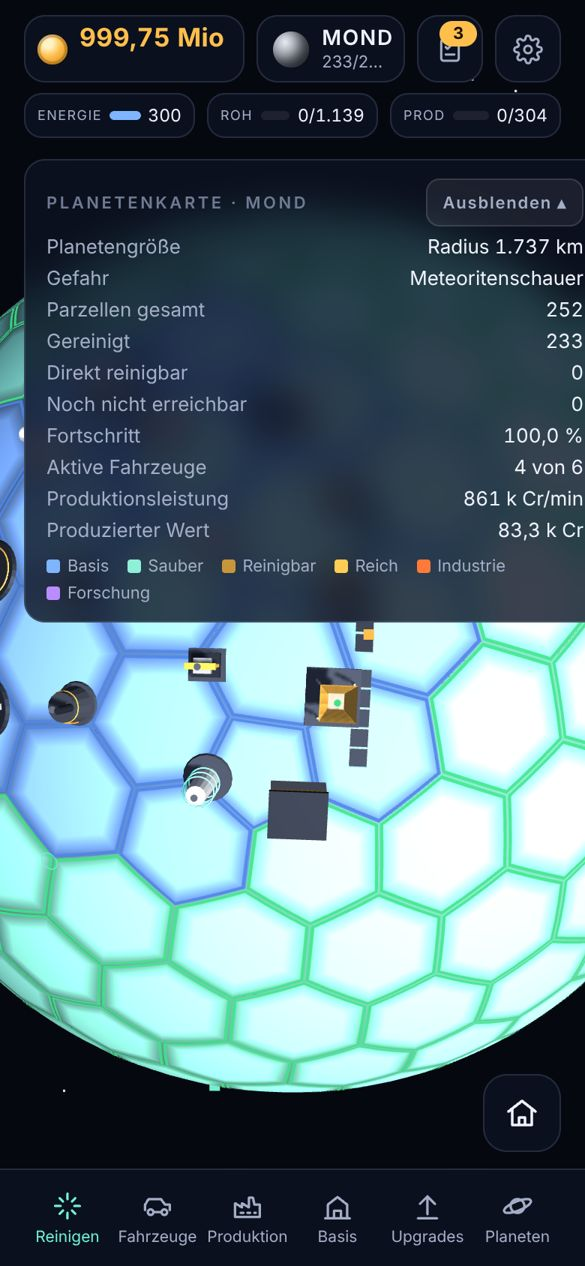
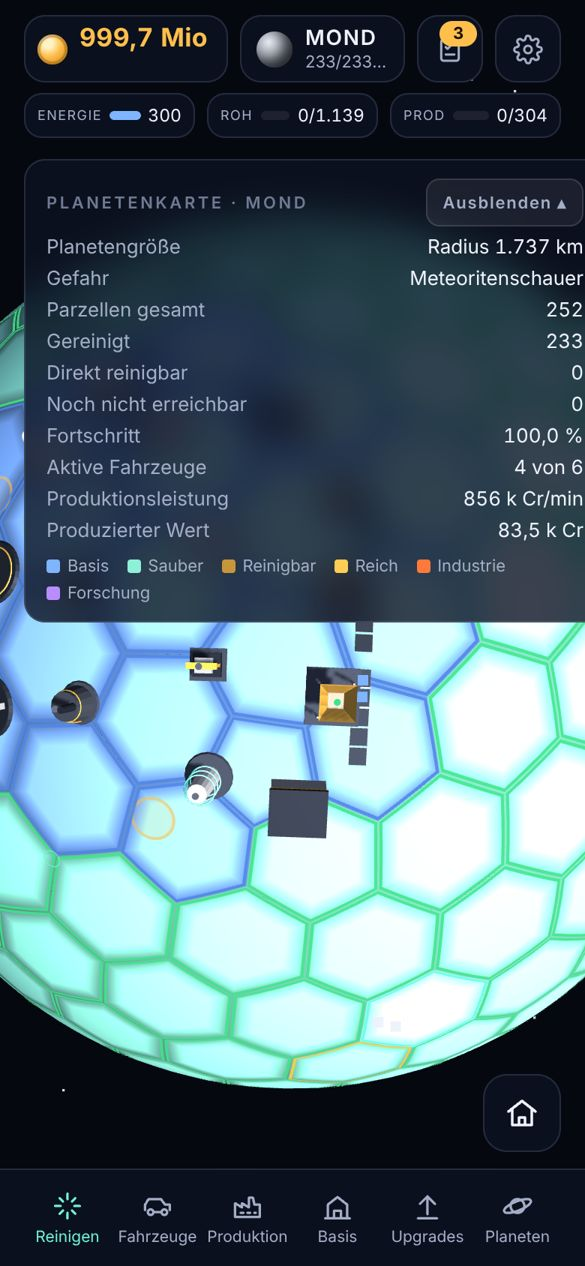
Building names only for the tapped building; refreshed screenshots
Claude-Session: https://claude.ai/code/session_01BgWwPMjR5e7A1i71jfEEtX

diff --git a/prototype/index.html b/prototype/index.html
@@ -1298,7 +1298,7 @@ function makeLabel(text){
   const c=mkCanvas(256,64),x=c.getContext('2d');x.font='600 26px Oxanium, "Trebuchet MS", sans-serif';const w=Math.min(250,x.measureText(text).width+34);
   x.fillStyle='rgba(8,12,24,.75)';x.beginPath();x.moveTo(128-w/2+20,6);x.arcTo(128+w/2,6,128+w/2,58,26);x.arcTo(128+w/2,58,128-w/2,58,26);x.arcTo(128-w/2,58,128-w/2,6,26);x.arcTo(128-w/2,6,128+w/2,6,26);x.fill();
   x.fillStyle='#eef2fb';x.textAlign='center';x.textBaseline='middle';x.fillText(text,128,33);
-  const s=new THREE.Sprite(new THREE.SpriteMaterial({map:new THREE.CanvasTexture(c),transparent:true,depthWrite:false}));s.scale.set(4.2,1.05,1);s.userData.label=1;return s;
+  const s=new THREE.Sprite(new THREE.SpriteMaterial({map:new THREE.CanvasTexture(c),transparent:true,depthWrite:false,depthTest:false}));s.scale.set(4.2,1.05,1);s.renderOrder=20;s.visible=false;s.userData.label=1;return s;
 }
 function matsLib(){return{
   metal:mat(0xd6dce4,{metalness:.35,roughness:.45}),dark:mat(0x2a3140,{metalness:.4,roughness:.6}),amber:mat(0xffbf4d,{metalness:.2,roughness:.5}),
@@ -1709,9 +1709,12 @@ function resetGame(){try{localStorage.removeItem(KEY);}catch(e){}for(const k in 
 const sheet=$('#sheet'),sheetBody=$('#sheetBody');let sheetState=null,B={},bid=0;
 const bind=fn=>{const k='b'+(bid++);B[k]=fn;return k;};
 const cr=n=>'<span class="cr-ico" aria-hidden="true"></span>'+fmt(n);
-function openSheet(kind,arg){sheetState={kind,arg};renderSheet();sheet.hidden=false;requestAnimationFrame(()=>sheet.classList.add('open'));
+/* Building names only appear for the building you tapped. */
+function updLabels(){const st=sheetState,sel=st&&st.kind==='building'?st.arg:st&&st.kind==='cell'&&SP().outposts.some(o=>o.cell===st.arg)?'o'+st.arg:null;
+  for(const id in buildViews)buildViews[id].g.traverse(o=>{if(o.userData.label)o.visible=!mapMode&&id===sel;});}
+function openSheet(kind,arg){sheetState={kind,arg};setTimeout(updLabels,0);renderSheet();sheet.hidden=false;requestAnimationFrame(()=>sheet.classList.add('open'));
   document.querySelectorAll('#nav button').forEach(b=>{if(b.dataset.nav!=='clean')b.classList.toggle('on',b.dataset.nav===kind);});}
-function closeSheet(){sheetState=null;sheet.classList.remove('open');selectCell(null);setTimeout(()=>{if(!sheetState)sheet.hidden=true;},230);document.querySelectorAll('#nav button').forEach(b=>{if(b.dataset.nav!=='clean')b.classList.remove('on');});}
+function closeSheet(){sheetState=null;setTimeout(updLabels,0);sheet.classList.remove('open');selectCell(null);setTimeout(()=>{if(!sheetState)sheet.hidden=true;},230);document.querySelectorAll('#nav button').forEach(b=>{if(b.dataset.nav!=='clean')b.classList.remove('on');});}
 function upgRow(id){const u=UP[id],l=lvl(id),max=l>=u.max;
   return '<div class="row"><div class="row-main"><div class="row-t">'+u.name+'<span class="lvl">Stufe '+l+'/'+u.max+(u.loc?' · nur '+PLANETS[S.planet].name:'')+'</span></div><div class="row-d">'+u.label+': '+u.show(u.val(l))+(max?'':' → <b>'+u.show(u.val(l+1))+'</b>')+'</div></div>'+
     (max?'<button class="buy" disabled>Max</button>':'<button class="buy" data-act="upg" data-id="'+id+'" data-en="'+bind(()=>S.credits>=ucost(id))+'">'+cr(ucost(id))+'</button>')+'</div>';}
@@ -2048,7 +2051,7 @@ function updLocks(){
   lockPool.forEach((L,i)=>{const id=want[i];if(id==null){L.sp.visible=false;return;}L.sp.visible=true;const cl=pd.cells[id],ok=false,txt='Forschung',key=id+'|'+txt+'|'+w.disc[id];
     if(L.key!==key){if(L.sp.material.map)L.sp.material.map.dispose();L.sp.material.map=new THREE.CanvasTexture(lockCanvas(txt,ok,w.disc[id]?cl.kind:'normal'));L.sp.material.needsUpdate=true;L.key=key;}
     const p=vsc(cl.c,R+2.6);L.sp.position.set(p[0],p[1],p[2]);});
-  for(const id in buildViews)buildViews[id].g.traverse(o=>{if(o.userData.label)o.visible=!mapMode&&cam.alt<75;});
+  updLabels();
 }
 const bvv0=()=>buildViews;
 function updateVisuals(dt,t){

diff --git a/prototype/tests/regression.py b/prototype/tests/regression.py
@@ -74,6 +74,9 @@ with game() as (pg, errs):
     for bid in ['hq', 'roh', 'prod', 'sell', 'u1', 'u2', 'u3', 'presse', 'schmelze', 'energy', 'research', 'werkstatt', 'hangar', 'rtg', 'geo', 'reactor', 'lifter']:
         E(f"()=>__t.openSheet('building','{bid}')"); pg.wait_for_timeout(30)
     E("()=>__t.closeSheet()")
+    r = E("""()=>{const t=__t;t.closeSheet();t.updLabels();const vis=()=>{const o=[];for(const id in t.buildViews)t.buildViews[id].g.traverse(n=>{if(n.userData.label&&n.visible)o.push(id);});return o;};
+      const a=vis();t.openSheet('building','roh');t.updLabels();const b=vis();t.closeSheet();t.updLabels();return {closed:a,open:b,after:vis()}}""")
+    show('labels', r); check(r['closed'] == [] and r['open'] == ['roh'] and r['after'] == [], 'building labels')
 
     s1 = E("()=>{__t.save();return {n:__t.W.moon.clean.reduce((a,b)=>a+b,0),d:__t.S.planets.moon.drones.length,o:__t.S.planets.moon.outposts.length}}")
     pg.reload(); pg.wait_for_timeout(1200)

diff --git a/docs/PROGRESS.md b/docs/PROGRESS.md
@@ -1,6 +1,7 @@
 # Fortschritt
 
 ## Fertig – Browser-Prototyp v3.8 (`prototype/index.html`)
+- v3.8.2: Gebäudenamen nur noch beim angetippten Gebäude (immer über allem, kein Clipping mit dem Boden); Webseiten-Screenshots neu.
 - v3.8.1: Alle Bandenden reichen bis in ihr Gebäude (Rohstofflager → Verkauf und Rohstofflager → Raffinerie bekamen einen Knick hinein, Layout-Test prüft jetzt jede Lücke). Übergabekästen ersetzt durch offene Tore, unter denen die Waren durchfahren. Bänder zum selben Ziel rechnen ihre Ware gemeinsam (kein Stau mehr am Verkaufsfrachtraum).
 - v3.8: Teamarbeit der Fahrzeuge (Sektoren auf einer Parzelle, +10 % je Partner, große/harte Parzellen ziehen Helfer an), Akkus für Staubi, Buggy, Industriesauger und Magnetgleiter (laden an Andockplätzen, Upgrade „Größere Akkus“, ziehen unterwegs keinen Netzstrom), Sammelbehälter des Spielers (Handabbau wird getragen und von Hand in Trichter oder Lager entladen, Upgrade „Größerer Sammelbehälter“), neues Tutorial-Ziel. Tests mit festem Zufallsstartwert.
 - v3.7: 5 Spezialfahrzeuge für spätere Planeten, Lastdrohnen (Schwerlast-Hangar) fliegen Maschinen zu entfernten Parzellen, Radioisotopen-Generator, Geothermie, Kernreaktor, Akkupark, Förderbänder ohne Lücke mit Übergabekästen, Zahlen bis Mrd/Bio.

diff --git a/docs/CONVERSATION.md b/docs/CONVERSATION.md
@@ -29,6 +29,7 @@ Zusammenfassung der Entwicklungs-Unterhaltung (Claude-App, 28.–29.10.2026), au
 13. **Mehr Fahrzeugtypen**, spätere Planeten brauchen andere Fahrzeuge; **Bänder ohne Lücken** an den Ausgängen; **Transportdrohnen für schwere Maschinen** zu neuen schmutzigen Stellen (spät); **neue Energie bis Kernkraft** für die Nachteile der äußeren Planeten. → v3.7.
 14. Fahrzeuge sollen sich **gegenseitig bei der Reinigung unterstützen**; manche nutzen **Ladestationen für ihre Akkus**; der Spieler bekommt ein **ausbaufähiges Tragevolumen**, das er selbst in Trichter oder Entladestation leert. → v3.8.
 15. Bandausgänge prüfen – Rohstofflager → Verkauf war nicht verbunden; Bricks clippten durch die schwarz-gelben Übergabekästen. → v3.8.1.
+16. Gebäudenamen ausblenden (clippten mit dem Boden), nur beim Antippen zeigen. → v3.8.2.
 
 ## Was der Spieler mag / nicht mag
 - Mag: sichtbaren Fortschritt, Automatisierung, die sich selbst trägt, mehrere Planeten parallel, klare Rückmeldungen (Farben, Ampel, Begründungen).
